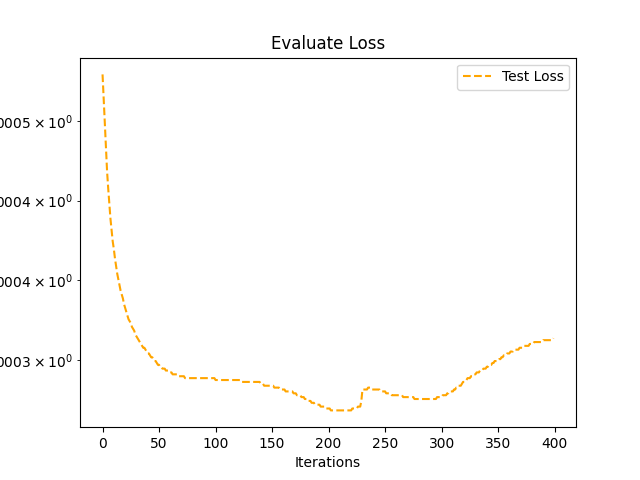
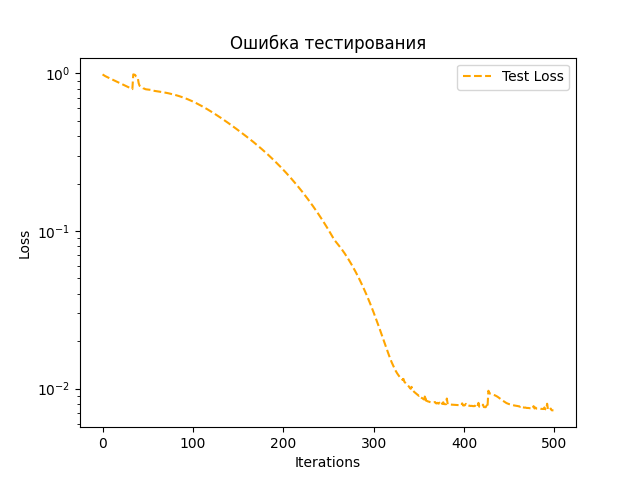
Результаты экспериментов

diff --git a/pinn_for_hydraulic_transients/main.py b/pinn_for_hydraulic_transients/main.py
@@ -5,11 +5,11 @@ import torch.nn as nn
 import numpy as np
 import scipy.io as sc
 from matplotlib import pyplot as plt
-from network import Network
+from Network_MLP import mMLP
 from torch.optim import lr_scheduler
 D = 0.3
 A = np.pi * D**2/4
-r = 1000
+r = 900
 lamda = 0.01
 S0 = 0.2
 k1 = 0.01
@@ -17,22 +17,22 @@ np.random.seed(1234)
 torch.cuda.manual_seed(1234)
 torch.manual_seed(1234)
 torch.cuda.empty_cache()
-step_size = 500
-total_epoch = 40000
+step_size = 2000
+total_epoch = 50000 
 device = torch.device("cuda:0" if torch.cuda.is_available() else "cpu")
 criterion = nn.MSELoss()
 
 class PINN :
     def __init__(self, x, t, Q, alpha, x_t, t_t, Q_t, alpha_t):
-        layers = [2] + [20] * 8 + [2]
-        self.model = Network(layers).to(device) #создание прототипа класса network с заранее описанной структурой ИНС
+        layers = [2] + [24] * 4 + [2]
+        self.model = mMLP(layers).to(device) #создание прототипа класса network с заранее описанной структурой ИНС
         XX0, TT0 = torch.meshgrid(x,t) #Создание сетки координат для обучающей выборки 
         self.pipe_L = 40
         self.n_collo = 10
         x_collocation = torch.linspace(40, self.pipe_L, self.n_collo)
         lb = float(t.min())
         ub = float(t.max())
-        self.t_collocation = torch.linspace(lb, ub, 1)
+        self.t_collocation = torch.linspace(lb, ub, 100)
         XX1, TT1 = torch.meshgrid(x_collocation, self.t_collocation) #Создание сетки координат для тестовой выборки
 
         x0 = XX0.flatten()[:, None]  # NT x 1 Получение тензора новой структуры, сохраняя строчный порядок
@@ -74,7 +74,7 @@ class PINN :
 
         # L-BFGS
         self.lbfgs = torch.optim.LBFGS(self.model.parameters(),
-                                       lr=1., max_iter=10000, max_eval=20000,
+                                       lr=1., max_iter=5000, max_eval=5000,
                                        history_size=50,
                                        tolerance_grad=1e-7,
                                        tolerance_change=1.0 * np.finfo(float).eps,
@@ -90,6 +90,8 @@ class PINN :
         self.train_loss = []  # list_loss
         self.test_loss = []
         self.lamda_list = []
+        self.data_to_fig1 = []
+        self.data_to_fig2 = []
 
     def loss_ODE_func(self, x_co): #расчет ошибки дифференцирования исследуемой динамики
 
@@ -111,7 +113,7 @@ class PINN :
                                     create_graph=True)[0]
         dP_dx = dp_dx[:, 0]
         dP_dt = dp_dx[:, 1]
-        dP_da =  r*0.5*(Q1/S0/(k1*alpha1))**2
+        dP_da =  self.lamda*r*0.5*(Q1/S0/(k1*alpha1))**2
         f_1 = dQ_dt - A*dP_da/r + lamda*Q1* abs (Q1) /2/ D/ A
         f_2 =  r*0.5*(Q1/S0/(k1*alpha1))**2
 
@@ -138,7 +140,6 @@ class PINN :
         Loss, _, _ = self.loss_func(self.X_o, self.Qa)
         # self.losses.append(Loss.item())
         Loss.backward()
-
         return Loss
 
     def Train(self):
@@ -152,7 +153,8 @@ class PINN :
             LOSS, loss0, loss1 = self.loss_func(self.X_o, self.Qa)
             self.train_loss.append(LOSS.item())
             self.lamda_list.append(self.lamda.item())
-
+            self.data_to_fig1.append(loss0.item())
+            self.data_to_fig2.append(loss1.item())
             LOSS.backward()
             self.adam.step()
            # self.adam_lamda.step()
@@ -169,7 +171,6 @@ class PINN :
 
         print("Using L-BFGS")
         self.lbfgs.step(self.closure)
-
         print(torch.mean(self.lamda))
         # trainloss_array = np.array(self.train_loss)
         # np.save('loss_values.npy', trainloss_array)
@@ -180,7 +181,7 @@ class PINN :
 
         plt.figure(1)
         plt.semilogy(self.train_loss, label='Train Loss', color='blue')
-        plt.title('Model Loss')
+        plt.title('Ошибка обучения')
         plt.xlabel('Iterations')
         plt.ylabel('Loss')
         plt.legend()
@@ -189,12 +190,31 @@ class PINN :
 
         plt.figure(2)
         plt.semilogy(self.test_loss, linestyle='--', label='Test Loss', color='orange')
-        plt.title('Evaluate Loss')
+        plt.title('Ошибка тестирования')
         plt.xlabel('Iterations')
         plt.ylabel('Loss')
         plt.legend()
         plt.savefig('loss_test.png', format='png')
         plt.close()
+
+        plt.figure(3)
+        plt.semilogy(self.data_to_fig1, linestyle='--', label='Data Loss', color='green')
+        plt.title('Ошибка данных')
+        plt.xlabel('Iterations')
+        plt.ylabel('Loss')
+        plt.legend()
+        plt.savefig('loss_data.png', format='png')
+        plt.close()
+
+        plt.figure(4)
+        plt.semilogy(self.data_to_fig2, linestyle='--', label='ODE Loss', color='red')
+        plt.title('Ошибка дифференцирования')
+        plt.xlabel('Iterations')
+        plt.ylabel('Loss')
+        plt.legend()
+        plt.savefig('loss_ODE.png', format='png')
+        plt.close()
+
 
 
 def ph_tensor1(y):
@@ -240,4 +260,4 @@ if __name__ == "__main__":
     pinn.Train()
 
     elapsed = time.time() - start_time
-    print('Training time: %.4f' % elapsed)
+    print('Training time: %.2f' % elapsed)